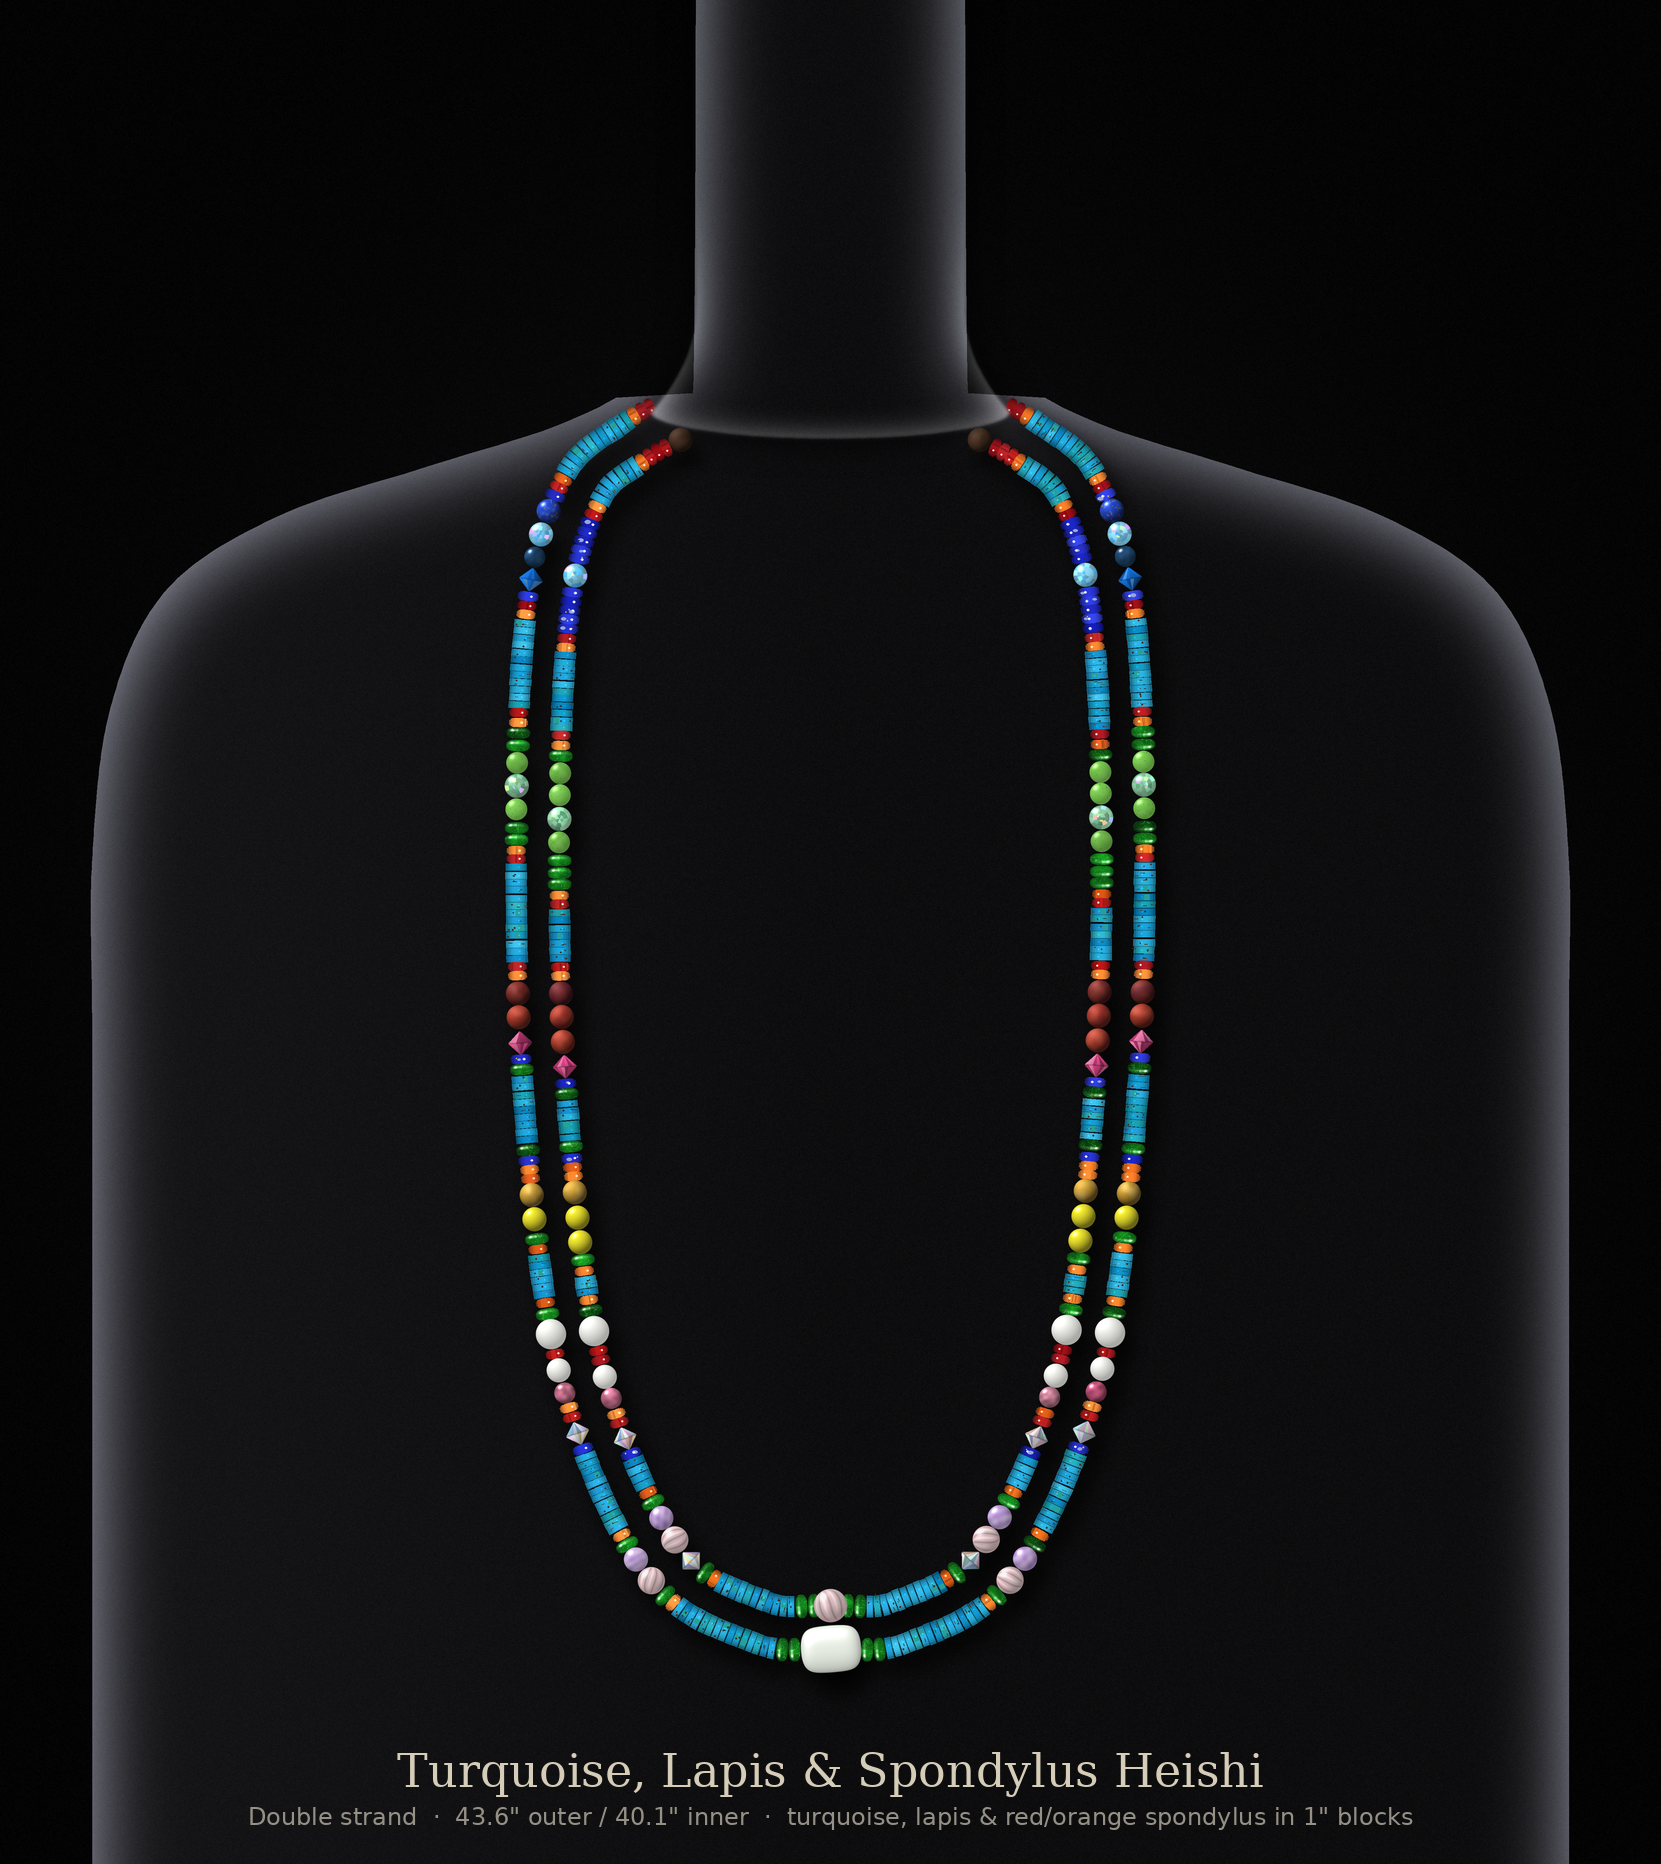
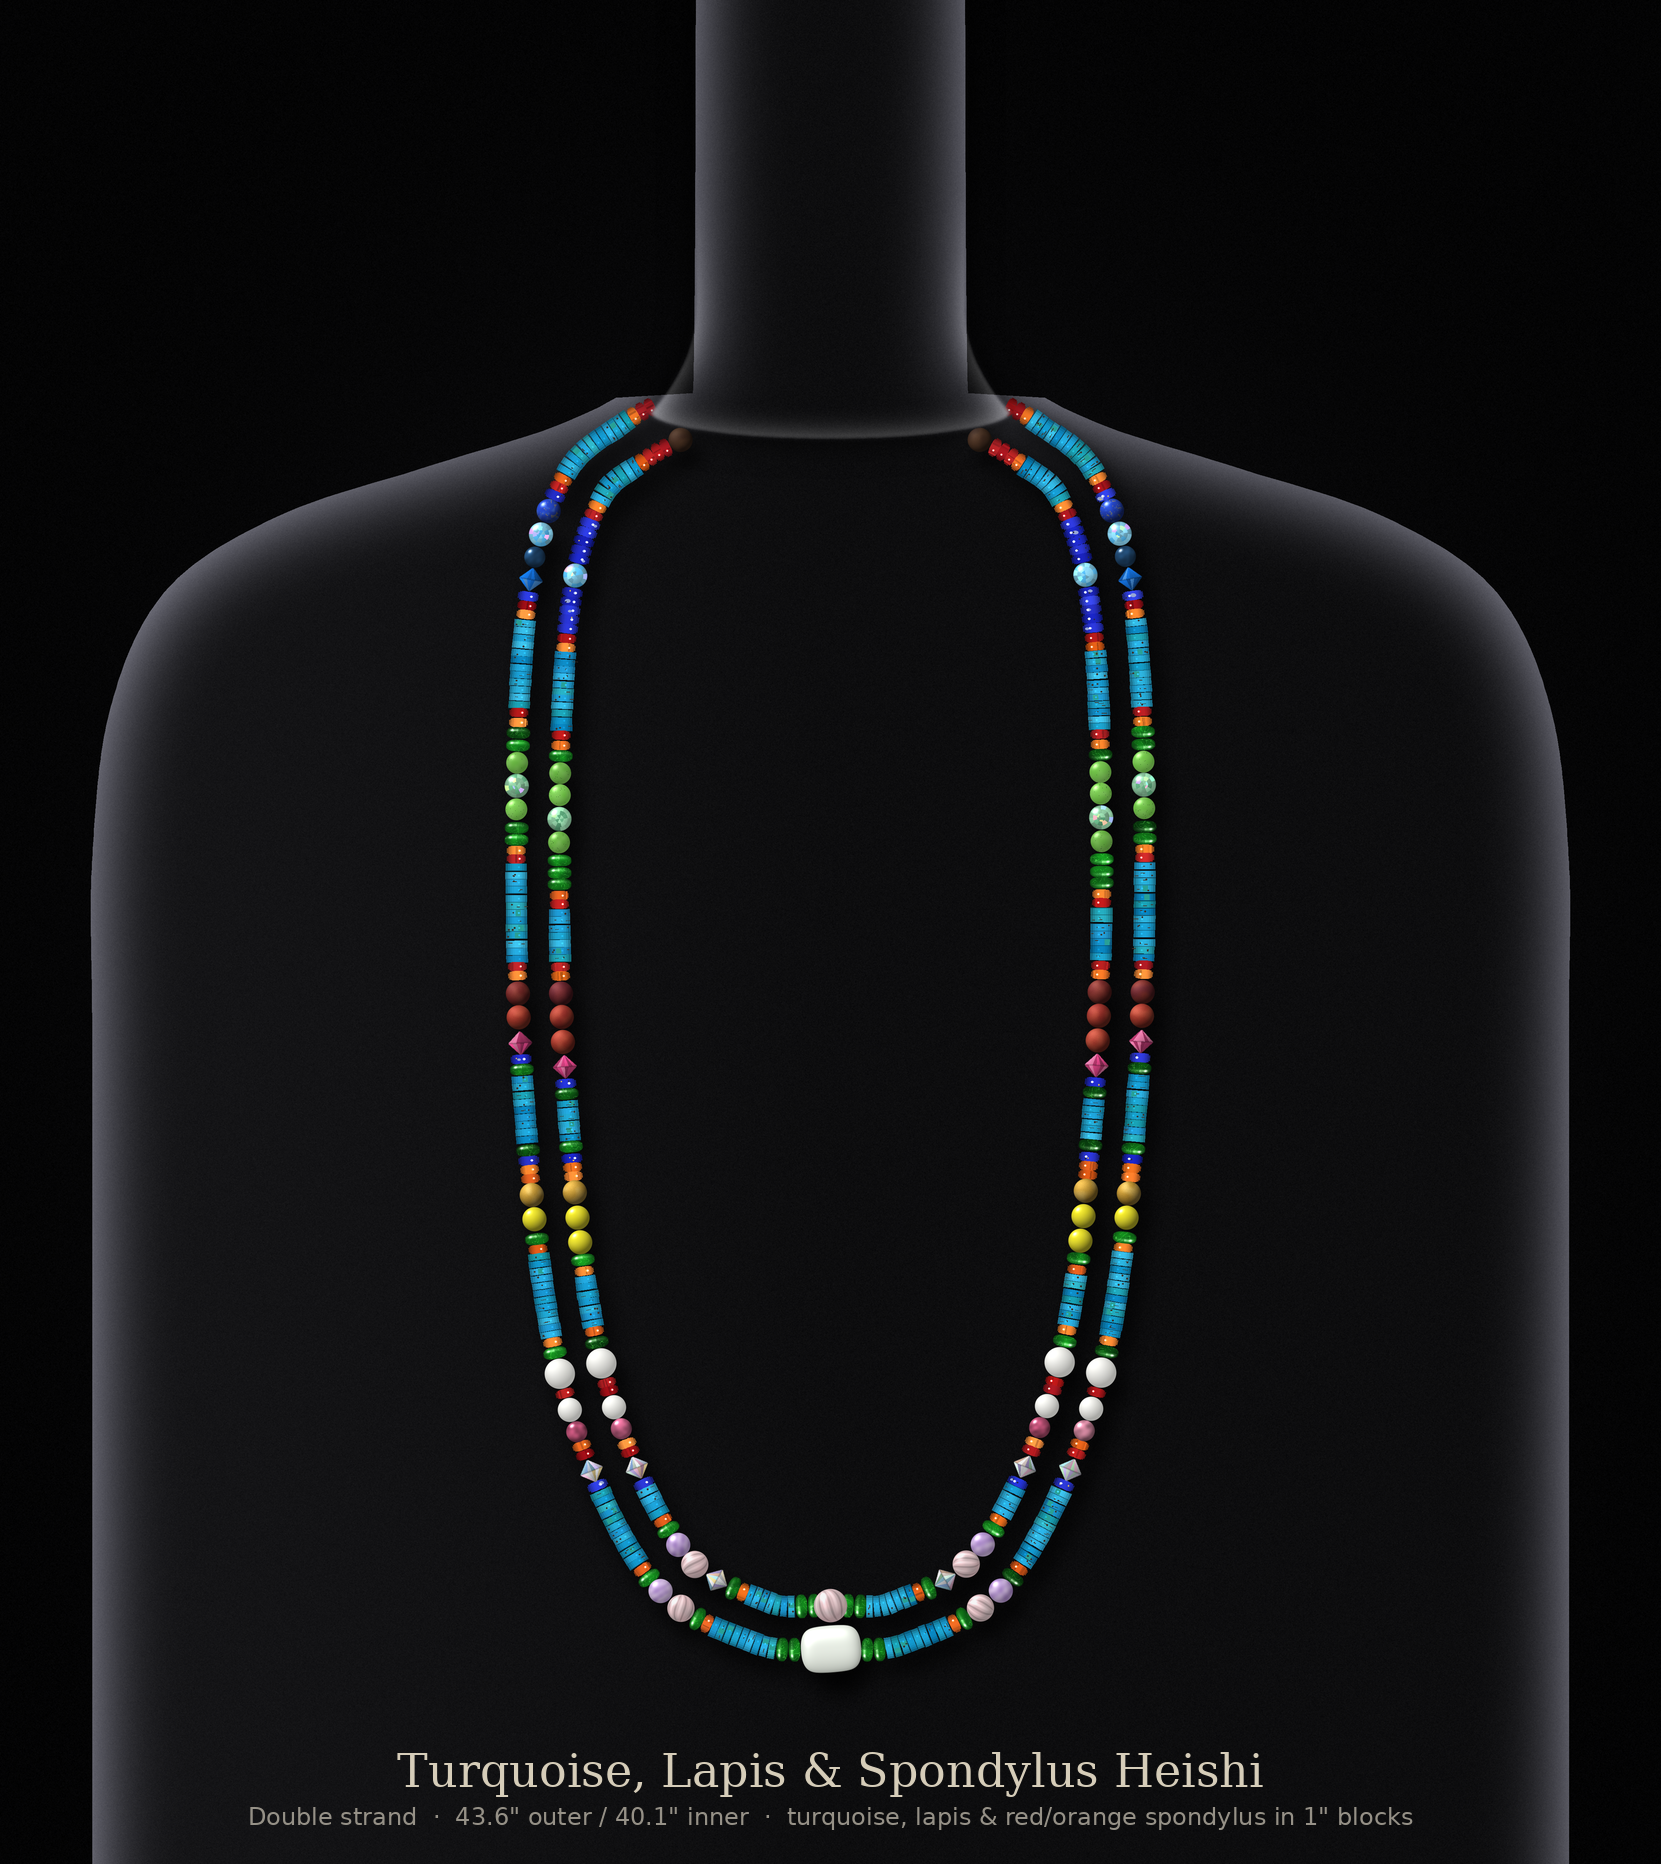
Version 5: longer turquoise between the yellow and white sections, taken from the centre run
Claude-Session: https://claude.ai/code/session_014be1vF4Rdf8sv9Si75Gudv

diff --git a/necklace/render_necklace.py b/necklace/render_necklace.py
@@ -1415,7 +1415,11 @@ if V4:
                 _n7 = sum(SZ[k] for k in STN[7]); _n8 = sum(SZ[k] for k in STN[8])
                 _ns7 = _c7 - _n7 / 2; _ns8 = _c8 - _n8 / 2
                 gaps[7] = _ns7 - _prev_end; gaps[8] = _ns8 - (_ns7 + _n7); gaps[9] = _end - (_ns8 + _n8)
-                print(f"v5 strand {st} swapped 7/8 gaps", [round(float(x), 1) for x in gaps[6:]])
+                # turquoise between the yellow and the white sections made as long as the other runs on that strand;
+                # the white and rose quartz sections move down, taking it from the run at the centre bottom
+                _tgt = sum(gaps[i] for i in (3, 4, 5, 6, 8)) / 5
+                _d = _tgt - gaps[7]; gaps[7] += _d; gaps[9] -= _d
+                print(f"v5 strand {st} swapped 7/8 gaps", [round(float(x), 1) for x in gaps])
             g = 0.0
             lap = LAP_BUDGET[st]
             for gi, gl in enumerate(gaps):
